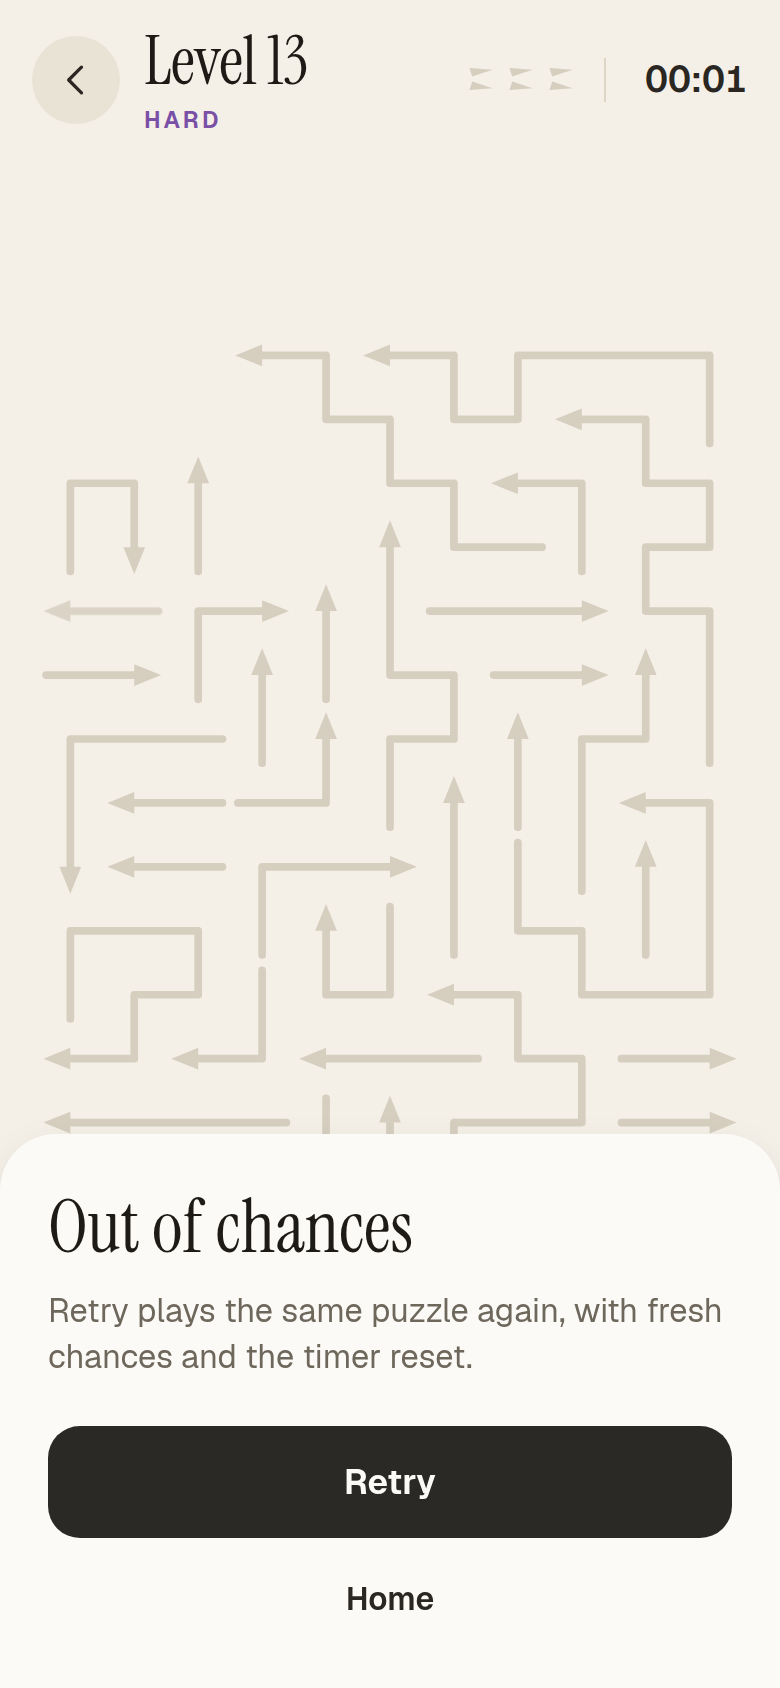
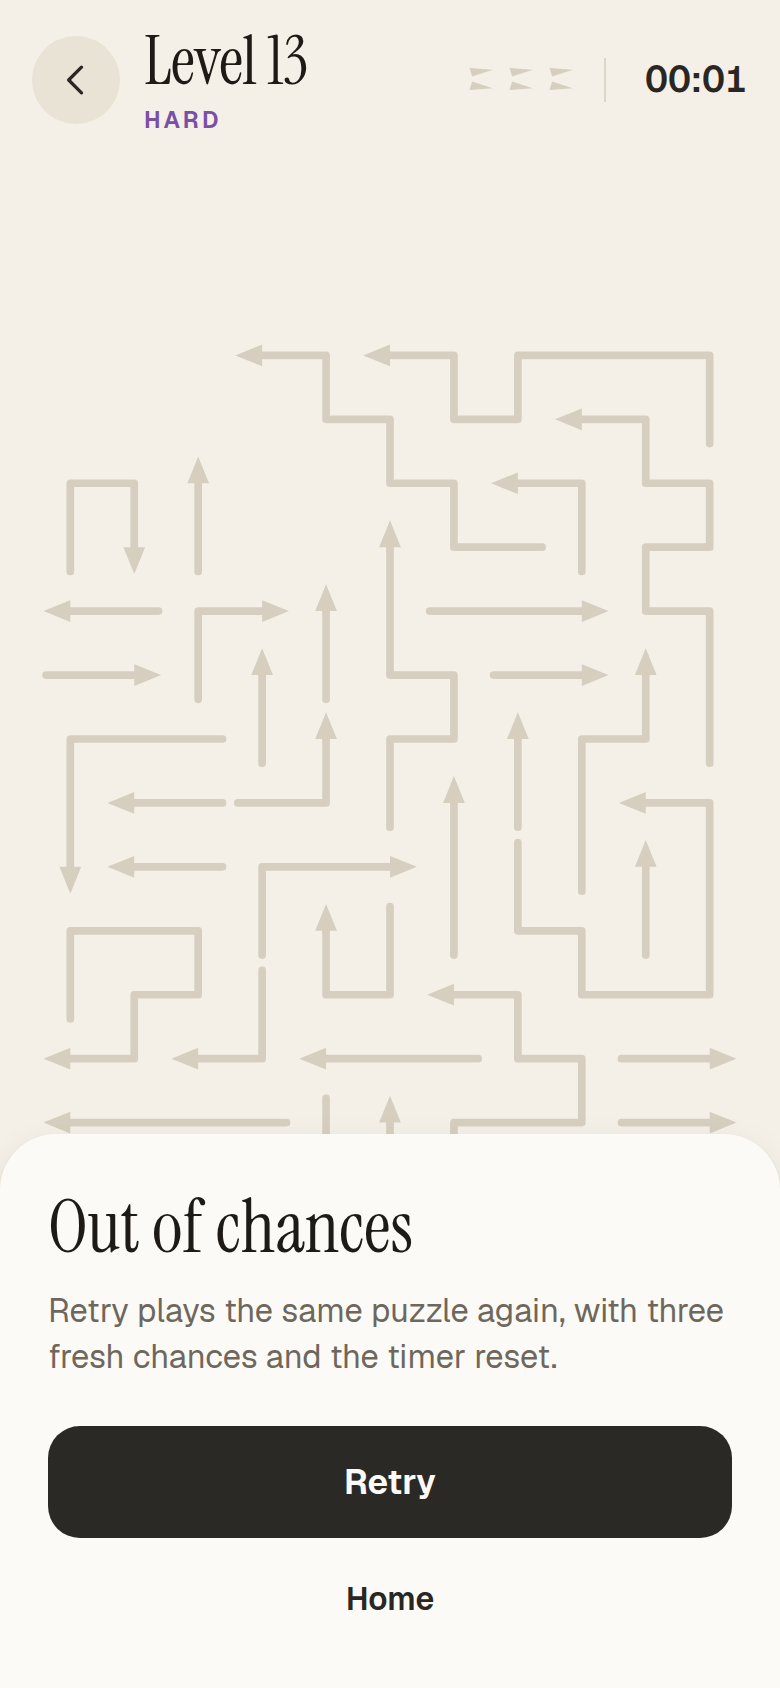
Address review: losing-tap flash, break reset, contrast, leftovers
Fixes from the isolated review of this pull request:

- The losing tap did not flash: the faded-board rule keyed on
  data-status="lost" outranked the blocked colour and faded the board at
  once. The board now fades only when the lost sheet opens (data-faded),
  and a browser test checks the computed colours: red on the losing tap,
  the lost colour under the sheet. A hint up at that moment is cleared.
- With motion on, a reset during a break left a chance intact in colour
  but split in shape: the tween kept posing after the reset. Frames now
  stop as soon as the chance is placed again; test with animation frames.
- "Hint shown" was text at 3.36:1: the label stays in text colour and
  only the icon takes the hint colour. The contrast test holds it at 3:1
  as an icon, and adds the sheet title, the focus ring on both surfaces,
  and the drawing palette with its two known gaps (orange, yellow).
- DESIGN.md: the contrast claim narrowed to what is tested; orange and
  yellow drawing contrast and the hint-on-orange clash recorded as open
  points; focus token listed; shadow marked provisional. PLAN.md T10
  credits the bundled fonts.
- Favicon redrawn in the Paper colours with the design's sharp head.
- Remaining "drop" wording in comments and test names (app and engine;
  no generated content changes).
- Lose text back to the design's "with three fresh chances" (spellOut).
- The timer has its accessible label from the start.
[…]

diff --git a/apps/game/src/theme/contrast.test.ts b/apps/game/src/theme/contrast.test.ts
@@ -17,7 +17,7 @@ export function contrast(a: string, b: string): number {
   return (hi! + 0.05) / (lo! + 0.05);
 }
 
-const { colors, tiers } = DEFAULT_THEME;
+const { colors, tiers, drawingPalette } = DEFAULT_THEME;
 
 /**
  * Every pairing the screens use, with the WCAG AA minimum for its role: 4.5:1
@@ -30,6 +30,7 @@ const PAIRS: [string, string, string, number][] = [
   ['muted text on background', colors.textMuted, colors.background, 4.5],
   ['muted text on raised surface', colors.textMuted, colors.surfaceRaised, 4.5],
   ['title on background', colors.title, colors.background, 4.5],
+  ['sheet title on raised surface', colors.title, colors.surfaceRaised, 4.5],
   ['button label on primary', colors.onPrimary, colors.primary, 4.5],
   ['back icon on surface', colors.text, colors.surface, 3],
   ['easy tier label', tiers.easy, colors.background, 4.5],
@@ -40,12 +41,32 @@ const PAIRS: [string, string, string, number][] = [
   ['hinted arrow', colors.hint, colors.background, 3],
   ['blocked arrow', colors.blocked, colors.background, 3],
   ['intact chance', colors.chance, colors.background, 3],
-  ['hint label when shown', colors.hint, colors.surfaceRaised, 3],
+  ['hint icon when shown', colors.hint, colors.surfaceRaised, 3],
+  ['focus ring on background', colors.focus, colors.background, 3],
+  ['focus ring on raised surface', colors.focus, colors.surfaceRaised, 3],
 ];
+
+/**
+ * Drawing colours come from the design and are not all strong enough for a
+ * stroke on the paper background. The ones below 3:1 are listed here and in
+ * docs/DESIGN.md (open points) so the gap stays visible; any other colour must
+ * reach 3:1.
+ */
+const DRAWING_BELOW_3_TO_1 = new Set(['orange', 'yellow']);
 
 describe('theme contrast (WCAG AA)', () => {
   it.each(PAIRS)('%s', (_name, foreground, background, minimum) => {
     expect(contrast(foreground, background)).toBeGreaterThanOrEqual(minimum);
+  });
+
+  it.each(Object.entries(drawingPalette))('drawing colour %s on the background', (name, color) => {
+    const ratio = contrast(color, colors.background);
+    if (DRAWING_BELOW_3_TO_1.has(name)) {
+      // A known gap: the test fails if the colour is fixed, so the list gets updated.
+      expect(ratio).toBeLessThan(3);
+    } else {
+      expect(ratio).toBeGreaterThanOrEqual(3);
+    }
   });
 
   it('keeps a lost chance quiet but present, and tells it apart by shape', () => {

diff --git a/apps/game/src/screens/play.test.ts b/apps/game/src/screens/play.test.ts
@@ -140,8 +140,18 @@ describe('PlayScreen', () => {
     expect(root.querySelector('[aria-live]')?.textContent).toBe('Blocked. 2 chances left.');
     tapCell(root, x, y);
     expect(root.querySelector('[aria-live]')?.textContent).toBe('Blocked. 1 chance left.');
+    // A hint is up when the board is lost: the loss clears it.
+    root.querySelector<HTMLButtonElement>('.hint')!.click();
+    expect(root.querySelectorAll('.hinted')).toHaveLength(1);
     tapCell(root, x, y);
+    // The losing tap flashes like any blocked tap; the board is not faded yet.
+    expect(root.querySelector(`[data-arrow="${stuck}"]`)?.classList.contains('blocked')).toBe(true);
+    expect(play.dataset.status).toBe('lost');
+    expect(play.dataset.faded).toBeUndefined();
+    expect(root.querySelectorAll('.hinted')).toHaveLength(0);
+    expect(root.querySelector('.hint .tool-label')?.textContent).toBe('Hint');
     await vi.advanceTimersByTimeAsync(1000);
+    expect(play.dataset.faded).toBe('true');
 
     const overlay = root.querySelector<HTMLElement>('.overlay')!;
     expect(overlay.hidden).toBe(false);
@@ -149,6 +159,9 @@ describe('PlayScreen', () => {
     expect(play.dataset.status).toBe('lost');
     expect(root.querySelectorAll('.chance.lost')).toHaveLength(3);
     expect(overlay.querySelector('h2')?.textContent).toBe('Out of chances');
+    expect(overlay.querySelector('p')?.textContent).toBe(
+      'Retry plays the same puzzle again, with three fresh chances and the timer reset.',
+    );
     expect(overlay.querySelector('a')?.getAttribute('href')).toBe('dev.html');
     expect(overlay.querySelector('a')?.textContent).toBe('Home');
     // Everything behind the sheet is out of reach while it shows.
@@ -161,6 +174,7 @@ describe('PlayScreen', () => {
     expect(root.querySelector('.chances')?.getAttribute('data-chances')).toBe('3');
     expect(root.querySelectorAll('.chance.lost')).toHaveLength(0);
     expect(play.dataset.status).toBe('playing');
+    expect(play.dataset.faded).toBeUndefined();
     expect(play.dataset.arrowsLeft).toBe(String(puzzle.arrows.length));
     expect(root.querySelectorAll('[data-arrow]')).toHaveLength(puzzle.arrows.length);
     expect([...root.querySelectorAll('.body')].map((p) => p.getAttribute('d'))).toEqual(before);

diff --git a/apps/game/src/screens/play.ts b/apps/game/src/screens/play.ts
@@ -18,7 +18,7 @@ import { PlaySession } from '../game/session.ts';
 import { loadPuzzle, tierLabel } from '../puzzles.ts';
 import type { LoadedPuzzle } from '../puzzles.ts';
 import type { PuzzleRef } from '../route.ts';
-import { formatDuration, t, tn } from '../strings.ts';
+import { formatDuration, spellOut, t, tn } from '../strings.ts';
 import type { Theme } from '../theme/theme.ts';
 import { el } from '../ui/dom.ts';
 import { Hud } from '../ui/hud.ts';
@@ -131,7 +131,7 @@ export class PlayScreen {
       this.showOverlay({
         kind: 'lost',
         title: t('lost.title'),
-        body: t('lost.body'),
+        body: t('lost.body', { total: spellOut(state.livesAtStart) }),
         action: t('lost.retry'),
         onAction: () => this.restart(),
         secondary: this.home(),
@@ -164,12 +164,16 @@ export class PlayScreen {
   /** Shows the end-of-board card and takes everything behind it out of reach. */
   private showOverlay(content: OverlayContent): void {
     for (const element of this.background()) element.toggleAttribute('inert', true);
+    // A lost board fades only now, under the sheet: until then the losing tap
+    // flashes like any other blocked tap.
+    if (content.kind === 'lost') this.element.dataset.faded = 'true';
     this.overlay.show(content);
   }
 
   private hideOverlay(): void {
     if (!this.overlay.visible) return;
     this.overlay.hide();
+    delete this.element.dataset.faded;
     for (const element of this.background()) element.toggleAttribute('inert', false);
     this.stage.focus();
   }
@@ -343,6 +347,8 @@ export class PlayScreen {
         return;
       case 'blocked':
         void this.renderer.bump(result.arrowId, result.blockedBy);
+        // A hint means nothing on a lost board: clear it before the label refreshes.
+        if (session.state.status === 'lost') this.renderer.setHint(null);
         this.refresh();
         this.announce(tn('status.blocked', session.state.lives));
         if (session.state.status === 'lost') void this.finish('lost');

diff --git a/apps/game/e2e/play.spec.ts b/apps/game/e2e/play.spec.ts
@@ -130,3 +130,37 @@ test('the grid toggles and the hint button lights one arrow', async ({ page, tou
   await press(page.locator('.toolbar .hint'), touch);
   await expect(page.locator('.arrow.hinted')).toHaveCount(1);
 });
+
+test('the losing tap flashes red, and the board fades only under the sheet', async ({
+  page,
+  touch,
+}) => {
+  // Without transitions the computed colours are final at once.
+  await page.emulateMedia({ reducedMotion: 'reduce' });
+  const { puzzle } = generateLevel(1);
+  const free = new Set(freeArrows(createGame(puzzle)));
+  const id = puzzle.arrows.find((arrow) => !free.has(arrow.id))!.id;
+  await page.goto('./?level=1');
+  await expect(page.locator('[data-arrow]')).toHaveCount(puzzle.arrows.length);
+  const colorOf = (selector: string) =>
+    page.locator(selector).evaluate((element) => getComputedStyle(element).color);
+  const blocked = await page.evaluate(() =>
+    getComputedStyle(document.documentElement).getPropertyValue('--color-blocked').trim(),
+  );
+  const lost = await page.evaluate(() =>
+    getComputedStyle(document.documentElement).getPropertyValue('--color-chance-lost').trim(),
+  );
+  const rgb = (hex: string) =>
+    `rgb(${[1, 3, 5].map((i) => parseInt(hex.slice(i, i + 2), 16)).join(', ')})`;
+
+  await tapArrow(page, touch, id);
+  await tapArrow(page, touch, id);
+  await expect(page.locator('.chances')).toHaveAttribute('data-chances', '1');
+  await tapArrow(page, touch, id);
+  expect(await colorOf(`[data-arrow="${id}"]`)).toBe(rgb(blocked));
+  await expect(play(page)).not.toHaveAttribute('data-faded');
+
+  await expect(page.locator('.overlay[data-overlay="lost"]')).toBeVisible();
+  await expect(play(page)).toHaveAttribute('data-faded', 'true');
+  expect(await colorOf(`[data-arrow="${id}"]`)).toBe(rgb(lost));
+});

diff --git a/apps/game/src/ui/chances.test.ts b/apps/game/src/ui/chances.test.ts
@@ -80,6 +80,24 @@ describe('Chances', () => {
     expect(chances.element.querySelector('path')?.hasAttribute('transform')).toBe(false);
   });
 
+  it('with motion, a reset during a break leaves the chance intact and unsplit', async () => {
+    const frames: FrameRequestCallback[] = [];
+    vi.stubGlobal('requestAnimationFrame', (cb: FrameRequestCallback) => frames.push(cb));
+    const chances = mount(false);
+    chances.set(3, 3);
+    chances.set(2, 3);
+    frames.shift()!(0);
+    // A retry, or a new board, before the break has finished.
+    chances.set(3, 3);
+    while (frames.length > 0) frames.shift()!(1000);
+    await vi.advanceTimersByTimeAsync(DEFAULT_THEME.motion.chanceBreakMs);
+    await chances.idle();
+    expect(classesOf(chances)).toEqual(['intact', 'intact', 'intact']);
+    for (const path of chances.element.querySelectorAll('path')) {
+      expect(path.hasAttribute('transform')).toBe(false);
+    }
+  });
+
   it('rebuilds when the total changes', () => {
     const chances = mount(true);
     chances.set(3, 3);

diff --git a/apps/game/src/strings.test.ts b/apps/game/src/strings.test.ts
@@ -1,5 +1,5 @@
 import { describe, expect, it } from 'vitest';
-import { formatDateKey, formatDuration, t, tn } from './strings.ts';
+import { formatDateKey, formatDuration, spellOut, t, tn } from './strings.ts';
 
 describe('t', () => {
   it('fills placeholders and leaves unknown ones visible', () => {
@@ -16,6 +16,18 @@ describe('tn', () => {
     expect(tn('status.blocked', 0)).toBe('Blocked. 0 chances left.');
     expect(tn('board.label', 1)).toMatch(/^Board, 1 arrow left\./);
     expect(tn('board.label', 142)).toMatch(/^Board, 142 arrows left\./);
+  });
+});
+
+describe('spellOut', () => {
+  it('spells small counts and keeps digits from 11', () => {
+    expect(spellOut(3)).toBe('three');
+    expect(spellOut(0)).toBe('zero');
+    expect(spellOut(10)).toBe('ten');
+    expect(spellOut(11)).toBe('11');
+    expect(t('lost.body', { total: spellOut(3) })).toBe(
+      'Retry plays the same puzzle again, with three fresh chances and the timer reset.',
+    );
   });
 });
 

diff --git a/apps/game/src/strings.ts b/apps/game/src/strings.ts
@@ -30,7 +30,7 @@ const en = {
   'won.next': 'Next level',
   'won.again': 'Play again',
   'lost.title': 'Out of chances',
-  'lost.body': 'Retry plays the same puzzle again, with fresh chances and the timer reset.',
+  'lost.body': 'Retry plays the same puzzle again, with {total} fresh chances and the timer reset.',
   'lost.retry': 'Retry',
 } as const;
 
@@ -56,6 +56,25 @@ export function tn(
 ): string {
   const form = plurals.select(n) === 'one' ? 'one' : 'other';
   return t(`${key}.${form}`, { ...params, n });
+}
+
+const SMALL_NUMBERS = [
+  'zero',
+  'one',
+  'two',
+  'three',
+  'four',
+  'five',
+  'six',
+  'seven',
+  'eight',
+  'nine',
+  'ten',
+];
+
+/** Small counts in words, as running text prefers ("three fresh chances"); digits from 11. */
+export function spellOut(n: number): string {
+  return SMALL_NUMBERS[n] ?? String(n);
 }
 
 /** `2026-10-02` as `Oct 2, 2026`. */

diff --git a/apps/game/src/game/session.test.ts b/apps/game/src/game/session.test.ts
@@ -32,7 +32,7 @@ describe('PlaySession', () => {
     expect(session.elapsedMs(1500)).toBe(500);
   });
 
-  it('costs a drop on a blocked arrow and names the blocker', () => {
+  it('costs a chance on a blocked arrow and names the blocker', () => {
     const session = new PlaySession(puzzle);
     const id = blockedArrow(puzzle);
     const { x, y } = puzzle.arrows[id]!.cells[0]!;
@@ -65,7 +65,7 @@ describe('PlaySession', () => {
     expect(session.hintsUsed).toBe(puzzle.arrows.length);
   });
 
-  it('retries the same puzzle with removed arrows back, fresh drops, timer and hint count', () => {
+  it('retries the same puzzle with removed arrows back, fresh chances, timer and hint count', () => {
     const session = new PlaySession(puzzle);
     const removed = session.hint()!;
     const { x: hx, y: hy } = head(puzzle.arrows[removed]!);

diff --git a/packages/engine/src/game/state.test.ts b/packages/engine/src/game/state.test.ts
@@ -49,7 +49,7 @@ describe('game state', () => {
     expect(arrowAt(state, 9, 9)).toBeNull();
   });
 
-  it('costs a drop for a blocked arrow and names the blockers', () => {
+  it('costs a life for a blocked arrow and names the blockers', () => {
     const start = createGame(puzzle);
     const { state, outcome } = tap(start, 2);
     expect(outcome).toEqual({ kind: 'blocked', arrowId: 2, blockedBy: [0] });
@@ -59,7 +59,7 @@ describe('game state', () => {
     expect(state.remaining.has(2)).toBe(true);
   });
 
-  it('loses at zero drops and ignores taps afterwards', () => {
+  it('loses at zero lives and ignores taps afterwards', () => {
     let state = createGame(puzzle, { lives: 2 });
     state = tap(state, 2).state;
     state = tap(state, 2).state;

diff --git a/apps/game/src/styles.css b/apps/game/src/styles.css
@@ -255,12 +255,12 @@ body {
   fill: currentColor;
 }
 
-/* A lost board fades under the sheet. */
-.play[data-status='lost'] .arrow {
+/* A lost board fades once the sheet is up (not on the losing tap, which flashes first). */
+.play[data-faded] .arrow {
   color: var(--color-chance-lost);
 }
 
-.play[data-status='lost'] .arrow .head {
+.play[data-faded] .arrow .head {
   fill: currentColor;
 }
 
@@ -311,7 +311,8 @@ body {
   text-align: left;
 }
 
-.tool.hint.shown {
+/* The icon carries the hint colour; the label stays in text colour for 4.5:1. */
+.tool.hint.shown .icon {
   color: var(--color-hint);
 }
 

diff --git a/packages/engine/src/solver/solve.ts b/packages/engine/src/solver/solve.ts
@@ -29,7 +29,7 @@ export interface Analysis {
   readonly avgRayLength: number;
   /** Share of arrows whose head sits at the edge, pointing out (ray length 0). */
   readonly borderHeadRatio: number;
-  /** Mean number, per step, of arrows blocked by exactly one cell: the ones that cost drops. */
+  /** Mean number, per step, of arrows blocked by exactly one cell: the ones that cost a life (a chance, in the app). */
   readonly avgNearMiss: number;
   /** A provisional 0 to 100 composite; tiers are tuned on the raw metrics. */
   readonly difficulty: number;

diff --git a/apps/game/src/ui/hud.ts b/apps/game/src/ui/hud.ts
@@ -30,7 +30,12 @@ export class Hud {
     this.title = el(doc, 'h1');
     this.tier = el(doc, 'p', { class: 'tier' });
     this.chances = new Chances(doc, theme, reducedMotion);
-    this.time = el(doc, 'span', { class: 'time', role: 'timer' }, ['00:00']);
+    this.time = el(
+      doc,
+      'span',
+      { class: 'time', role: 'timer', 'aria-label': t('hud.timer', { time: '00:00' }) },
+      ['00:00'],
+    );
     this.topbar = el(doc, 'header', { class: 'topbar' }, [
       back,
       el(doc, 'div', { class: 'title' }, [this.title, this.tier]),
